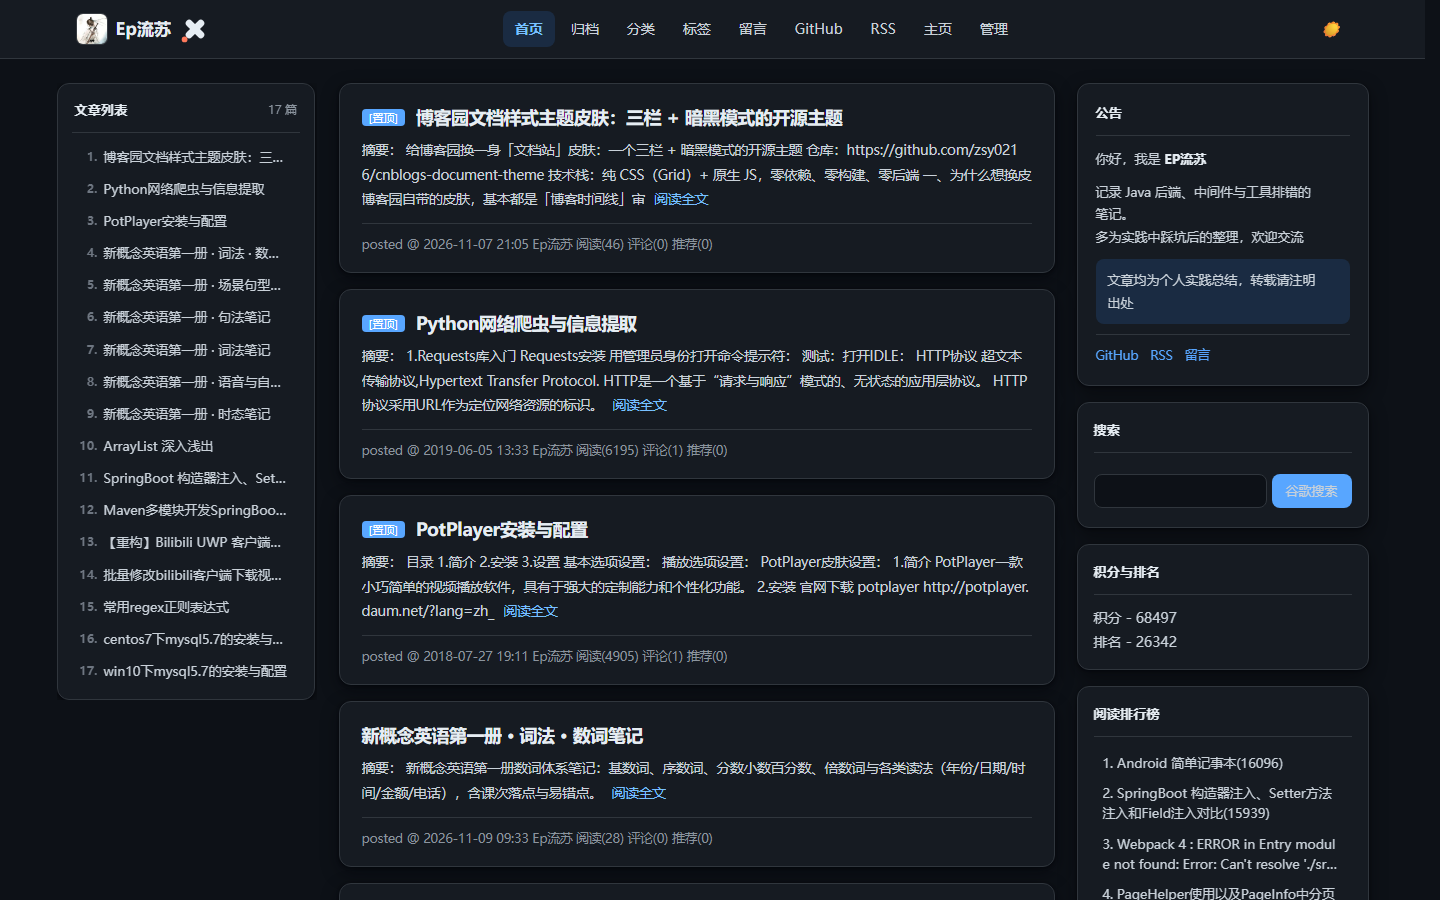
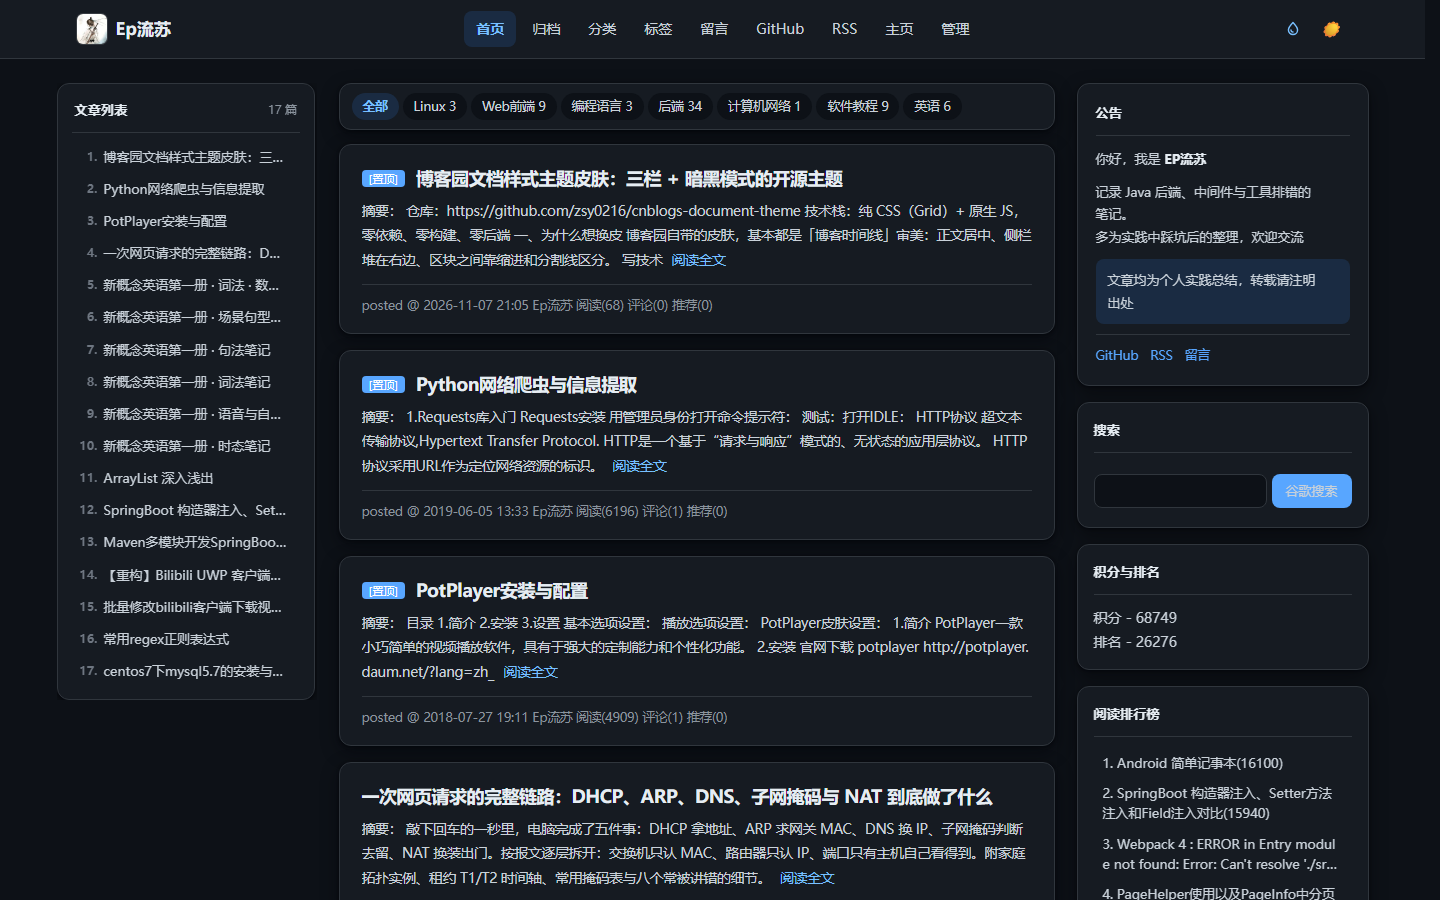
docs: 推广文同步 v7.28（分类标签/手机抽屉/写死署名），配图重截并补手机两张；shot-docs 改为本地产物注入后入库

diff --git a/_dev-tools/shot-docs.js b/_dev-tools/shot-docs.js
@@ -1,0 +1,132 @@
+/**
+ * 截取 README / 文档用的效果图（线上真实页面 + 本地构建产物）。
+ *
+ *   node _dev-tools/shot-docs.js
+ *
+ * 输出到 docs/images/：
+ *   home-v7.png         首页浅色（三栏 + 顶部分类筛选条）
+ *   post-v7.png         文章页浅色（左栏 H1–H4 目录 + 标题下分类标签）
+ *   home-v7-dark.png    首页暗色
+ *   mobile-v7.png       手机列表（390px）
+ *   mobile-menu-v7.png  手机导航抽屉（同上，展开态）
+ *
+ * 为什么不用线上现成那份 js / CSS：
+ *   线上「页面定制 CSS」字段与兜底 js 往往落后于仓库（发版要手工贴字段、上传文件），
+ *   直接截会拍到上一版的样子。这里把 jsdelivr 请求拦下来换成本地 dist/document-theme.js，
+ *   再补一份本地 theme-v7.min.css —— 截图反映的是**当前工作区**的样子。
+ *   合并包检测到 CSS 字段已就位（html{--qb-field:1}）会跳过样式注入，所以补 CSS 这步不能省。
+ *
+ * 等 html.qb-ready（首帧闸门放行）再截，否则可能拍到半成品。
+ */
+const fs = require('fs');
+const path = require('path');
+const { chromium } = require('playwright-core');
+
+const ROOT = path.join(__dirname, '..');
+const OUT = path.join(ROOT, 'docs', 'images');
+const SITE = 'https://www.cnblogs.com/zhangshuaiyin/';
+const BUNDLE = fs.readFileSync(path.join(ROOT, 'dist', 'document-theme.js'), 'utf8');
+const CSS = path.join(ROOT, 'css', 'theme-v7.min.css');
+
+async function routeLocalBundle(page) {
+  await page.route('**/*', (r) => {
+    const u = r.request().url();
+    if (/jsdelivr\.net.*document-theme\.js/.test(u)) {
+      return r.fulfill({ contentType: 'application/javascript', body: BUNDLE });
+    }
+    /* 兜底源（博客园文件空间）版本更旧，让它 404，免得走兜底拿到旧包 */
+    if (u.includes('blog-static.cnblogs.com')) return r.fulfill({ status: 404, body: '' });
+    return r.continue();
+  });
+}
+
+async function ready(page) {
+  try {
+    await page.waitForFunction(
+      () => document.documentElement.classList.contains('qb-ready'),
+      null,
+      { timeout: 9000 }
+    );
+  } catch (e) {
+    console.warn('  ! 未等到 qb-ready，按当前状态截图');
+  }
+  await page.addStyleTag({ path: CSS });
+  // 右栏卡片是 XHR 异步填的，再给一点稳定时间
+  await page.waitForTimeout(900);
+}
+
+(async () => {
+  fs.mkdirSync(OUT, { recursive: true });
+  const browser = await chromium.launch();
+
+  /* ---------- 桌面 ---------- */
+  const ctx = await browser.newContext({
+    viewport: { width: 1440, height: 900 },
+    deviceScaleFactor: 1,
+    colorScheme: 'light',
+    locale: 'zh-CN',
+  });
+  const p = await ctx.newPage();
+  await routeLocalBundle(p);
+
+  console.log('打开首页 …');
+  await p.goto(SITE, { waitUntil: 'domcontentloaded', timeout: 60000 });
+  await ready(p);
+  await p.screenshot({ path: path.join(OUT, 'home-v7.png') });
+  console.log('  ✓ home-v7.png');
+
+  const postUrl = await p.evaluate(() => {
+    const a = document.querySelector('#mainContent .postTitle a, .postTitle a');
+    return a ? a.href : null;
+  });
+  if (!postUrl) throw new Error('首页没找到文章链接');
+
+  console.log('打开文章页 …', postUrl);
+  await p.goto(postUrl, { waitUntil: 'domcontentloaded', timeout: 60000 });
+  await ready(p);
+  await p.screenshot({ path: path.join(OUT, 'post-v7.png') });
+  console.log('  ✓ post-v7.png');
+
+  console.log('切暗色 …');
+  await p.goto(SITE, { waitUntil: 'domcontentloaded', timeout: 60000 });
+  await ready(p);
+  await p.evaluate(() => {
+    const btn = document.querySelector('#qb-dark-toggle, .qb-dark-toggle');
+    if (btn) btn.click();
+    else document.body.classList.add('qb-dark');
+  });
+  await p.waitForTimeout(800);
+  await p.screenshot({ path: path.join(OUT, 'home-v7-dark.png') });
+  console.log('  ✓ home-v7-dark.png');
+  await ctx.close();
+
+  /* ---------- 手机 ---------- */
+  const mctx = await browser.newContext({
+    viewport: { width: 390, height: 844 },
+    deviceScaleFactor: 2,
+    isMobile: true,
+    hasTouch: true,
+    locale: 'zh-CN',
+  });
+  const m = await mctx.newPage();
+  await routeLocalBundle(m);
+  await m.goto(SITE, { waitUntil: 'domcontentloaded', timeout: 60000 });
+  await ready(m);
+  await m.screenshot({ path: path.join(OUT, 'mobile-v7.png') });
+  console.log('  ✓ mobile-v7.png');
+
+  await m.evaluate(() => {
+    const btn = document.getElementById('qb-burger');
+    if (btn) btn.click();
+  });
+  await m.waitForTimeout(500);
+  await m.screenshot({ path: path.join(OUT, 'mobile-menu-v7.png') });
+  console.log('  ✓ mobile-menu-v7.png');
+  await mctx.close();
+
+  await browser.close();
+  console.log('完成，输出目录：docs/images/');
+})().catch((e) => {
+  console.error('截图失败：', e.message);
+  process.exit(1);
+});

diff --git a/docs/promo-post.md b/docs/promo-post.md
@@ -2,6 +2,7 @@
 
 > 仓库：<https://github.com/zsy0216/cnblogs-document-theme>
 > 技术栈：纯 CSS（Grid）+ 原生 JS，零依赖、零构建、零后端
+> 当前版本：v7.28，MIT
 
 ## 一、为什么想换皮
 
@@ -17,17 +18,21 @@
 
 ## 二、长什么样
 
-**首页**：左中右三栏，左边是全文文章列表，中间是文章卡片，右边是公告和常用链接。
+**首页**：左中右三栏，左边是全文文章列表，中间是文章卡片，右边是公告和常用链接。列表顶上多了一行分类筛选（`全部` + 每个分类及其篇数），点一下就进对应分类页。
 
-![首页效果](https://gcore.jsdelivr.net/gh/zsy0216/cnblogs-document-theme@master/docs/images/home-v7.png)
+![首页效果](https://gcore.jsdelivr.net/gh/zsy0216/cnblogs-document-theme@v7.28/docs/images/home-v7.png)
 
-**文章页**：左边是正文 H1–H4 自动生成的目录，右边是卡片式侧栏，正文独占中栏。
+**文章页**：左边是正文 H1–H4 自动生成的目录，右边是卡片式侧栏，正文独占中栏；标题下面一行是这篇文章的分类和标签。
 
-![文章页效果](https://gcore.jsdelivr.net/gh/zsy0216/cnblogs-document-theme@master/docs/images/post-v7.png)
+![文章页效果](https://gcore.jsdelivr.net/gh/zsy0216/cnblogs-document-theme@v7.28/docs/images/post-v7.png)
 
 **暗色模式**：配色对齐 GitHub Dark —— 底色 `#0d1117`、卡片 `#161b22`、描边 `#30363d`、正文 `#c9d1d9`。不是简单把白底刷黑，而是每个层级都重新定了一套色。右上角 🌙 一键切换，状态存本地，首次访问跟随系统偏好。
 
-![暗色首页](https://gcore.jsdelivr.net/gh/zsy0216/cnblogs-document-theme@master/docs/images/home-v7-dark.png)
+![暗色首页](https://gcore.jsdelivr.net/gh/zsy0216/cnblogs-document-theme@v7.28/docs/images/home-v7-dark.png)
+
+**手机**：断点以下收成单栏，顶栏换成汉堡按钮 + 右侧抽屉，抽屉里的条目和桌面菜单同源，不会两套配置各说各话。
+
+![手机导航](https://gcore.jsdelivr.net/gh/zsy0216/cnblogs-document-theme@v7.28/docs/images/mobile-menu-v7.png)
 
 ## 三、都做了哪些事
 
@@ -117,28 +122,59 @@ body.qb-dark {
 
 不支持跨文档视图过渡的浏览器（如 Firefox）会忽略这几条规则，退回普通导航，不会更差。
 
-## 四、怎么装（两步，不用上传文件）
+### 7. 分类与标签：先查清数据在哪，再决定做什么
+
+博客园这套模板下，**每篇文章的分类和标签在 HTML 里是不存在的**：列表页 `.day` 只有标题、摘要、日期；详情页 `#EntryTag`、`#BlogPostCategory` 两个节点都没有，`#blog_post_info` 是个空 div（网上很多美化代码里那段标签样式，其实一直是死代码，包括我自己的旧版）。
+
+实测能拿到的是这两处：
+
+| 数据 | 从哪来 | 覆盖范围 |
+|:---|:---|:---|
+| 本文标签 + 分类名 | 详情页 `<meta name="keywords">`，内容是「标签…,分类名」，分类在末位 | 每篇文章都有，**零请求** |
+| 全站分类清单 | 博客的 `/categories` 页（分类名 + 各自篇数） | 全站一次，缓存 7 天 |
+
+所以详情页的胶囊这么做：标签直接读 `keywords`；分类拿那份清单从后往前核对，对不上就不显示 —— 宁可少显示，也不挂错。标签超过 4 个折成 `+n`，点一下展开。
+
+列表页则不为每篇打标：那需要抓 7 个分类页反向建映射（约 140 KB），翻页还会越翻越不一致。改成在列表顶上放一条分类筛选，首页高亮「全部」、分类页高亮当前项；窄屏不换行改横滑，末端被裁时加一层右缘渐隐。
+
+拿不到数据时的降级是设计的一部分：文章页只留标签、列表页不建空条，不出现空壳组件。
+
+### 8. 手机端：从「横滑菜单」到汉堡抽屉
+
+第一版窄屏是把桌面菜单改成横向滚动，实测走不通：390px 下 9 个条目只露出 4 个，剩下 5 个没有任何视觉线索。现在是汉堡按钮 + 右侧抽屉，条目从桌面菜单克隆，共用同一份 `nav` 配置；打开时锁滚动，点遮罩或按 Esc 关闭。
+
+顺带修掉一个更隐蔽的问题：右栏在窄屏**没有真正隐藏** —— 容器上写了 `display:none`，但更早的一条 `display:block !important` 把它盖掉了，实际效果是 370×1408px 的一块侧栏堆在正文下面。整页高度从 8754px 降到 7336px。
+
+另外，抽屉是脚本建的，所以 CSS 只在 `<html>` 挂上 `qb-mnav` 之后才隐藏横滑菜单 —— 脚本没跑成功时至少还留着原来的横滑入口，不会变成「没有导航」。
+
+### 9. 页脚：一行写死的署名
+
+页脚最后一行是 `Theme powered by cnblogs-document-theme ↗`，链回仓库：12px、比备案那行再淡一档、悬停提亮、打印时隐藏。同时写一条 `<meta name="generator">`，零视觉成本，也是 WordPress / Hugo 的通行做法。
+
+这行**写死在 js 里**，配置对象里没有对应的键，写 `credit: false` 不生效，界面上也没有开关。边界说清楚：任何前端代码都锁不住，fork 之后删掉一行就没了，MIT 允许 —— 所谓写死只是不给开关，不是防破解。我把它当成「让下一个人找到这个主题」的成本，公开写在这儿，不藏着。
+
+## 四、怎么装（两个字段，五分钟）
 
 > ⚠ 第 0 步最重要：**设置 → 皮肤 → 选 `Custom`（自定义）**，否则后面全都不生效。
 
-样式和逻辑都在仓库里，你只需要往后台贴两个字段 —— 不用上传任何文件，不用 fork，不用打 tag：
+样式和逻辑都在仓库里，你只需要往后台贴两个字段 —— **不用上传文件，不用 fork，不用打 tag，也不用改任何地址**：
 
 > 动手前先把**页脚 HTML 代码**和**公告**两个字段清空。页脚里若残留旧版内联脚本，
 > 它会自己建一套右栏，和新版同时跑，怎么贴都不对。
 
-1. **页面定制 CSS 代码** → 全选替换为 `dist/paste/样式.css`（53 KB，完整样式 + 首帧标记）
-2. **页首 HTML 代码** → 全选替换为 `dist/paste/页首.html`（4.5 KB，配置 + 加载器）
+| 步骤 | 贴到哪 | 贴什么 | 大小 |
+|:---:|:---|:---|---:|
+| 1 | 页面定制 CSS 代码 | `dist/paste/样式.css` | 53 KB |
+| 2 | 页首 HTML 代码 | `dist/paste/页首.html` | 4.3 KB |
+| 3 | 页脚 HTML 代码 / 公告 | 全选删除（公告不删也行，会自动取后台原文） | — |
 
 保存后前台 `Ctrl+F5` 强刷。
 
-页首里那段加载器会从 `gcore.jsdelivr.net`（GitHub 仓库镜像）取 js，取不到自动换
-`cdn.jsdelivr.net`。两个地址都钉了版本号，所以你看到的就是装的这一版，不会哪天样式突然变了。
+页首里那段加载器会从 `gcore.jsdelivr.net`（GitHub 仓库镜像）取 js，取不到自动换 `cdn.jsdelivr.net`，两个都钉了版本号 —— 你看到的就是装的这一版，不会哪天样式突然变了。那份 js 由我维护在仓库里，发版时我打 tag，你这边不用做任何事。
 
-**页首里没有任何我的信息**：顶栏品牌取你页面标题里的博客名，菜单指向你自己的站，
-公告用你后台那份原文，连 favicon 都不碰。
+**页首里没有任何我的信息**：顶栏品牌取你页面标题里的博客名，菜单指向你自己的站，公告用你后台那份原文，连 favicon 都不碰。
 
-想升级时，重贴 CSS + 换页首两份字段即可；只想改配色、菜单、公告，改页首里那段 `LS_CONFIG` 就行，
-不用重新贴 CSS。
+升级时把页首里那行地址的版本号改掉、并重贴一次 CSS（约 53 KB）即可；只想改配色、菜单、公告，改页首里那段 `LS_CONFIG` 就行，不用重新贴 CSS。
 
 顶栏菜单、公告文案、强调色都不必改源码，页首那段 `window.LS_CONFIG` 里配就行：
 
@@ -161,9 +197,9 @@ window.LS_CONFIG = {
 
 ## 五、几个设计取舍
 
-**为什么不用框架？** 博客园的自定义代码是直接贴进页面的，没有构建流程。引入 Vue/React 意味着要么上 CDN（多一个外部依赖、多一次阻塞），要么把运行时整个贴进去（几十 KB）。这个主题的交互只有「切暗色」「回顶」「生成目录」三件小事，原生 JS 加起来不到 10KB，没必要。
+**为什么不用框架？** 博客园的自定义代码是直接贴进页面的，没有构建流程。引入 Vue/React 意味着要么上 CDN（多一个外部依赖、多一次阻塞），要么把运行时整个贴进去（几十 KB）。这个主题的交互都是小东西 —— 切暗色、回顶、生成目录、分类筛选、手机抽屉 —— 原生 JS 压缩后约 65 KB，比一份框架运行时还小，而且没有构建步骤、没有额外的 CDN 依赖。
 
-**为什么 CSS 要分全版和压缩版？** `theme-v7.css` 是带完整注释的开发版，`theme-v7.min.css` 是发布版（体积小 45%）。博客园的 CSS 字段有长度限制，压一下更安全。
+**为什么 CSS 要分全版和压缩版？** `theme-v7.css` 是带完整注释的开发版，`theme-v7.min.css` 是发布版，压掉 44%（95 KB → 53 KB）。博客园的 CSS 字段实测能吃下五万字符（现在这份就是 53 KB），但注释留在生产环境没有收益，压一下更稳。
 
 **为什么强调「对着真实 DOM 写」？** 网上很多博客园美化代码是几年前的，选择器早就失效了，贴上去一半样式不生效，还容易和园方新样式打架。这个主题的每条选择器我都在线上页面验证过。
 

diff --git a/docs/开发指南.md b/docs/开发指南.md
@@ -198,4 +198,7 @@ git commit → git push → git tag <新版本号> && git push --tags
 > 为什么不钉分支：jsDelivr 各节点对 `@master` 缓存很久，实测推完新版本后
 > `gcore` 仍返回两周前的旧包，加 `?v=` 和官方 purge 都清不掉。详见 `docs/安装-详解.md`。
 
-写文档配图时跑 `node _dev-tools/shot-docs.js`，会重新截 `docs/images/` 里那三张。
+写文档配图时跑 `node _dev-tools/shot-docs.js`，会重新截 `docs/images/` 里那五张
+（首页浅色 / 文章页 / 首页暗色 / 手机列表 / 手机抽屉）。脚本把 jsdelivr 请求拦下来换成本地
+`dist/document-theme.js`、再补一份本地 `theme-v7.min.css`，所以截出来是**当前工作区**的样子，
+不受线上字段还没更新影响 —— 否则拍到的永远是上一版。

diff --git a/README.md b/README.md
@@ -20,9 +20,15 @@
 |:---:|:---:|
 | ![首页浅色](docs/images/home-v7.png) | ![首页暗色](docs/images/home-v7-dark.png) |
 
-文章页（左侧根据正文 H1–H4 自动生成目录）：
+文章页（左侧根据正文 H1–H4 自动生成目录，标题下是分类与标签）：
 
 ![文章页](docs/images/post-v7.png)
+
+手机（断点以下汉堡 + 右侧抽屉，条目与桌面菜单同源）：
+
+| 列表 | 导航抽屉 |
+|:---:|:---:|
+| ![手机列表](docs/images/mobile-v7.png) | ![手机导航](docs/images/mobile-menu-v7.png) |
 
 ## 谁在用
 
